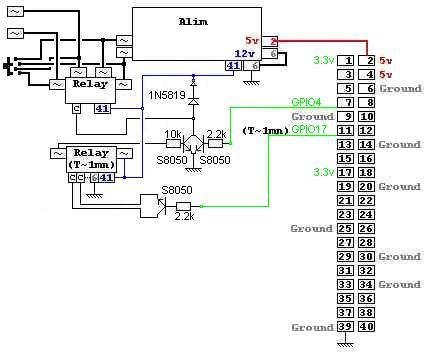
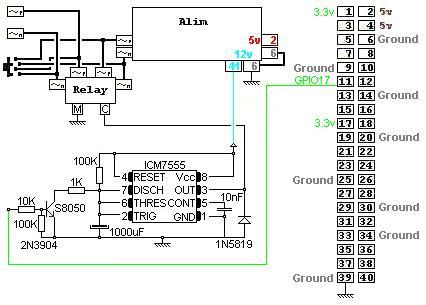
new alim

Changed region(s): [[0.0, 0.0, 1.0, 1.0], [0.3052, 0.0, 0.6103, 0.0885]]

diff --git a/index.js b/index.js
@@ -38,8 +38,7 @@ var DUMMY = true;		// DUMMY=true for no motor connected...
 				// SET DUMMY TO FALSE AT YOUR OWN RISK!!!
 				// This program is distributed in the hope that
 				// it will be useful, but WITHOUT ANY WARRANTY.
-const powerPin1		= 0;	// pin 11 (relay~1mn)
-const powerPin2		= 7;	// pin 7
+const powerPin		= 0;	// pin 11 (relay~1mn)
 const powerOffDelay	= 900000;
 const motorPin		= 1;	// pin 12
 const inhibCounterPin	= 2;	// pin 13
@@ -61,14 +60,14 @@ var initIntervalId	= setInterval(function(){
 	if(initHardware()){
 		console.log(Date()+': Hardware connected...');
 		init=true; clearInterval(initIntervalId);
-	} shutdown();
+	} resetShutdown();
 }, 5000);
 
 function initHardware(){
  if(!DUMMY){
-	if(wpi.pinMode(powerPin1, wpi.OUTPUT)<0 || wpi.pinMode(powerPin2, wpi.OUTPUT)<0
+	if(wpi.pinMode(powerPin, wpi.OUTPUT)<0
 		|| wpi.pinMode(motorPin, wpi.PWM_OUTPUT)<0)	return false;
-	wpi.pwmWrite(motorPin, 0); wpi.pwmWrite(powerPin2, 1); wpi.pwmWrite(powerPin1, 0); // Power On...
+	wpi.pwmWrite(powerPin, 1); wpi.pwmWrite(motorPin, 0);	// Power On...
 	if((counterFD=wpi.mcp23017Setup(100, 0x20))<0)		// pin 15:17 to ground
 								return false;
 	if(wiringPiI2CWriteReg8(counterFD, 0x0a, 0x80)<0)	// set 16 bits mode
@@ -106,15 +105,14 @@ function setSpeed(v){
 	}, speedPeriod);
 }
 
-function shutdown(delay=0){
+function resetShutdown(delay=0){
 	clearInterval(powerOffIntervalId);
 	if(delay>=0){
 		powerOffIntervalId=setInterval(function(){
 			console.log(Date()+': bye!');
 			if(!DUMMY) {
-				wpi.pwmWrite(powerPin1, 1);	// Power 1 mn...
+				wpi.pwmWrite(powerPin, 0);	// Power off-1 mn...
 				exec("/sbin/shutdown -h now", function(){console.log('Shutdown -h now...');});
-				wpi.pwmWrite(powerPin2, 0); wpi.pwmWrite(powerPin1, 0);	// Power Off
 			}else	console.log('DUMMY mode: hardware reconnect...');
 		}, delay?delay:powerOffDelay);
 }	}
@@ -144,7 +142,7 @@ io.sockets.on('connection', function(socket){
 					clearInterval(id);
 				else	socket.emit('initDefault');
 			}, 5000);
-			shutdown(-1);
+			resetShutdown(-1);
 		}else 	socket.emit('denied');	// deja occupe!
 	});
 
@@ -152,7 +150,7 @@ io.sockets.on('connection', function(socket){
 	socket.on('powerOff', function(data){if(clientsId[0] == socket.id){
 		sendSpeed(socket, 0); clientsId.unshift('');
 		clearInterval(id);
-		shutdown();
+		resetShutdown();
 	}});
 
 	// Speed management:
@@ -191,7 +189,7 @@ io.sockets.on('connection', function(socket){
 		if(clientsId[0] == socket.id){
 			sendSpeed(socket, 0);
 			clientsId.unshift('');
-			shutdown();
+			resetShutdown();
 		} clientsId.splice(clientsId.indexOf(socket.id), 1);
 });	});
 

diff --git a/README.md b/README.md
@@ -27,5 +27,4 @@ Hardware:
 * 1 MCP23017 and Expander HAT Board, ![](doc/images/mcp23017HatBoard.jpg)
 * 1 SN74HC4040N, ![](doc/images/SN74HC4040N.jpg)
 * 1 infrared sensor, ![](doc/images/infraredSensor.jpg)
-* one timed relay, resistors, 2N2222 and a few small components... ![](doc/images/timedRelay.jpg)
-* ![](doc/images/alim.jpg)
+* one relay and a few small components... ![](doc/images/alim.jpg)
